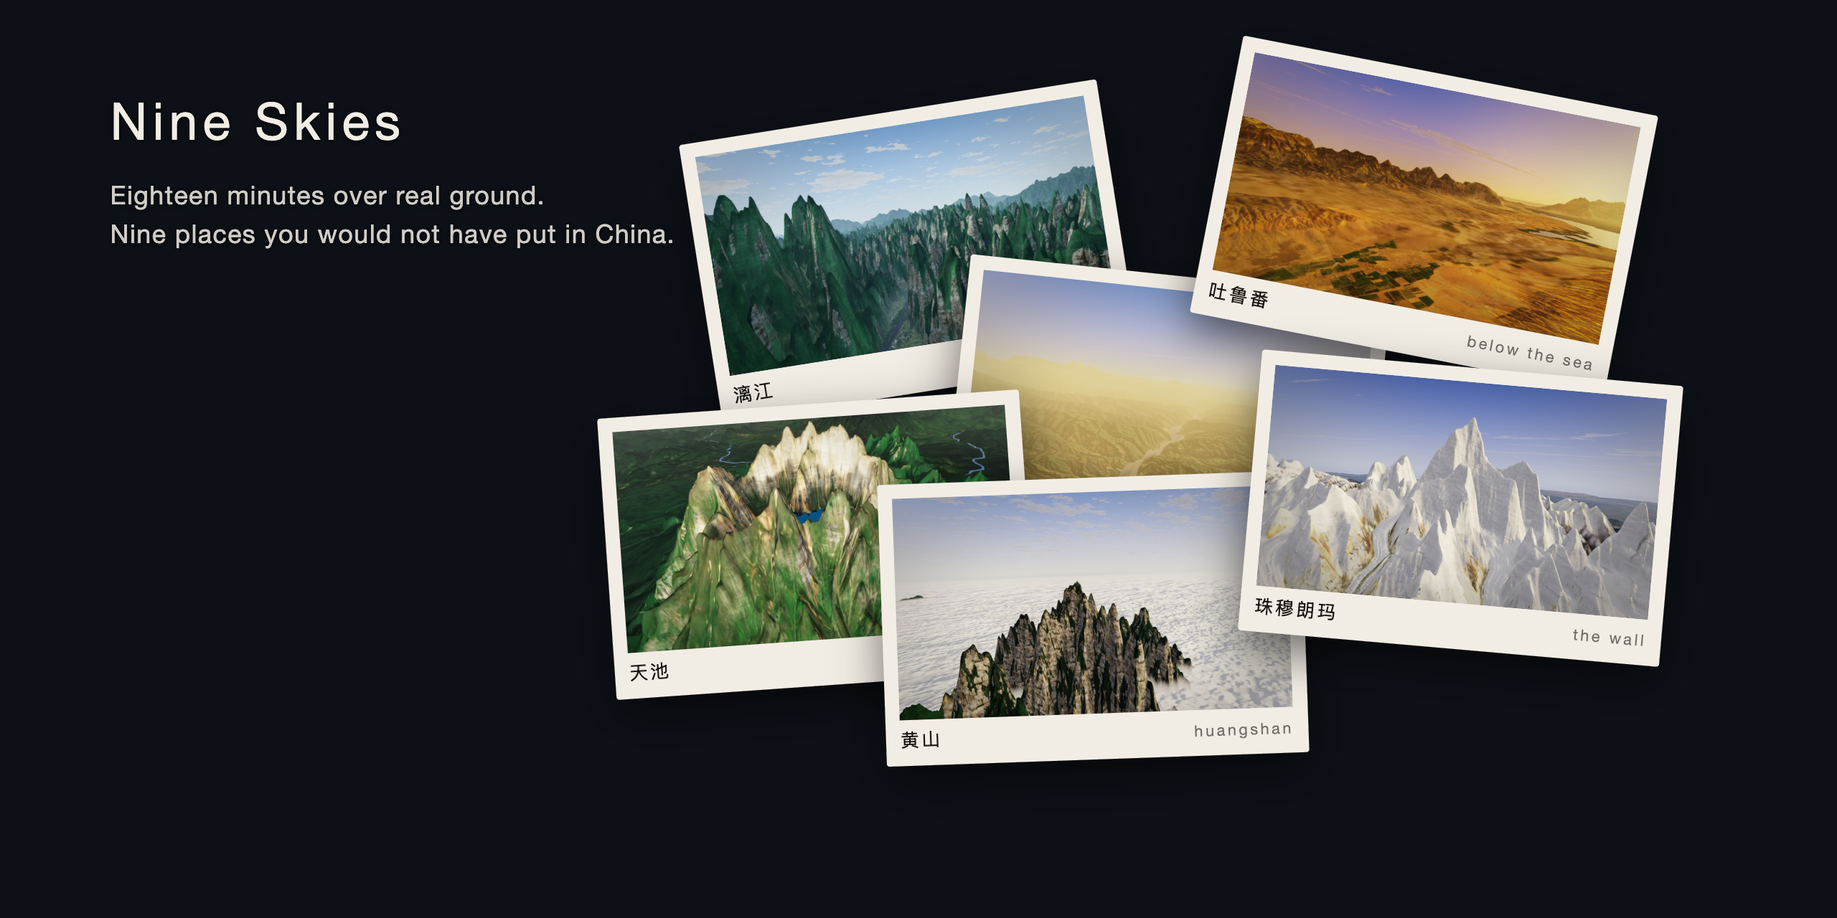
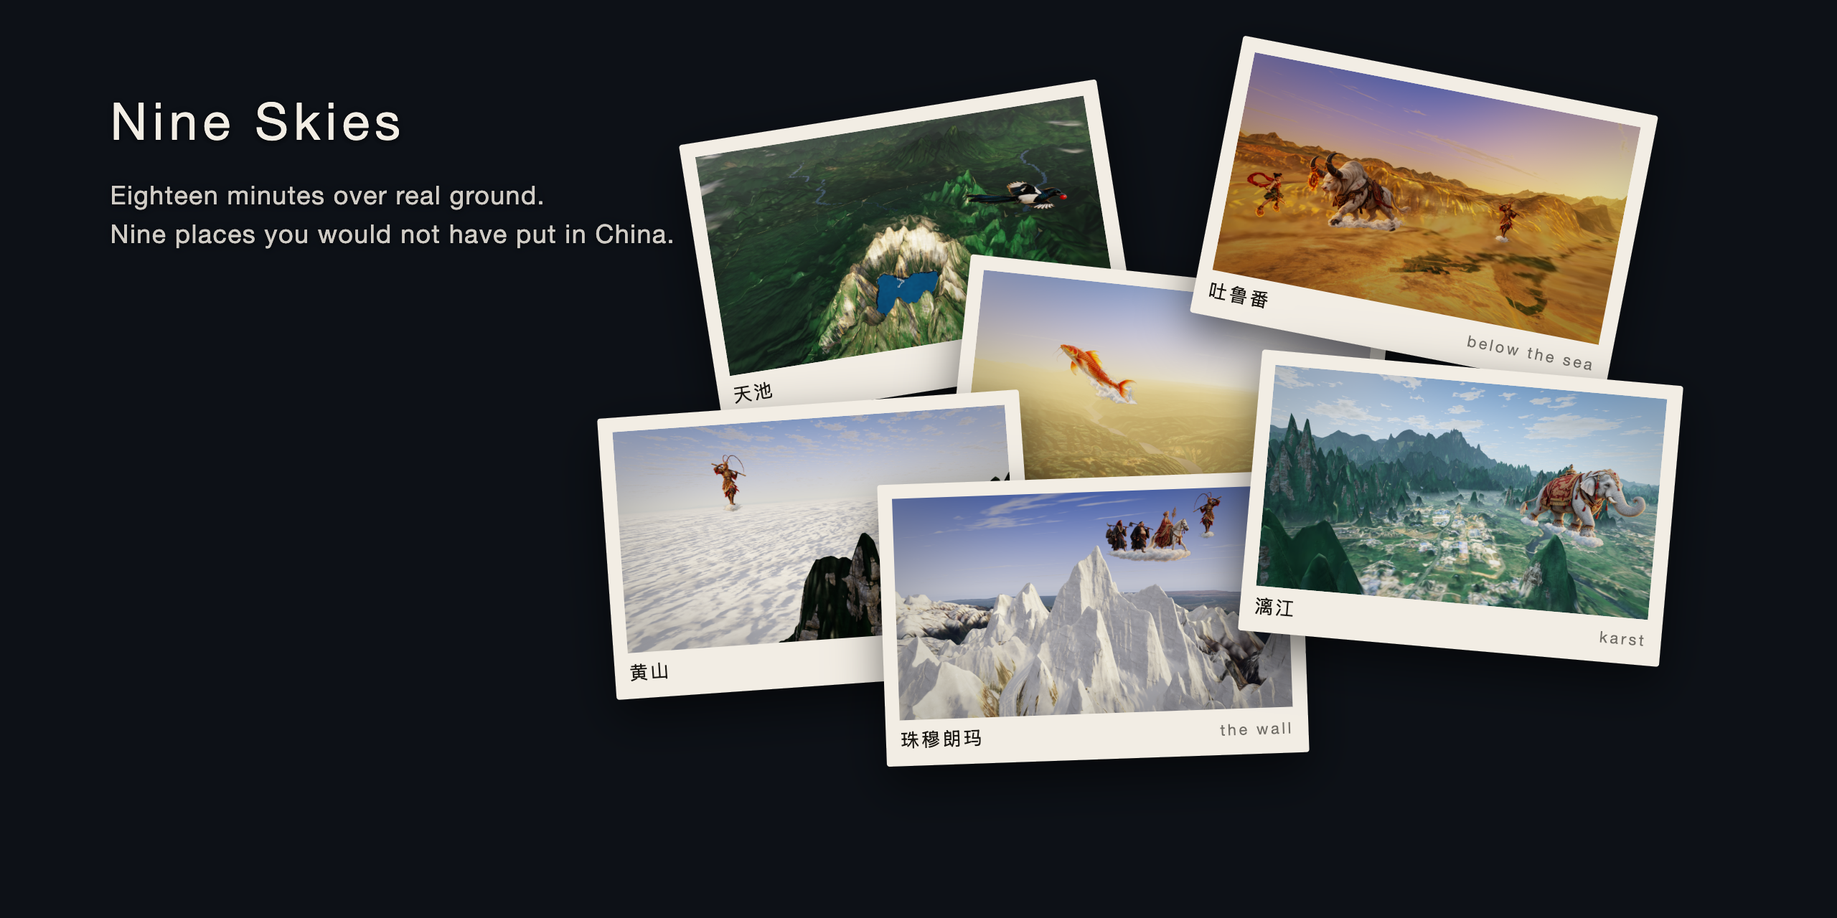
F131: the cover with its skies, a figure on every card
The cover's nine cards were the ground alone: seven were the film's
stills, drawn without the cast for the look's sign-off, and its own two
frames were taken with the cast off too, so the figures the film is named
for were on none of them. It was also drawn before F126-F127.

`npm run cover -- frames` now takes all nine cards from the running film
with the cast on, in one viewing (`?cast&castseed=1`), most at a second in
a figure's line, when the director holds it where its cue puts it: Wukong
over Huangshan, the White Dragon in the Gorges, the elephant over the
Karst, the tiger at the First Bend, the carp over the Loess, the magpie at
Heaven Lake (held 1,500 m up so the crater's lake is in the picture), the
Bull Demon King at the Flaming Mountains, the old turtle on the Roof, the
pilgrims crossing the Wall. The Gorges and the Loess are taken earlier in
their visits, where their figures are clear of the card's caption. The
postcards are placed so no card covers a figure.

The README says what the cast is and how to bring it on (J, the lantern,
`?cast`), since the film opens without it. The cover needs signing off.

Changed region(s): [[0.3125, 0.0938, 0.9062, 0.8125], [0.6562, 0.125, 0.9062, 0.375]]

diff --git a/tools/cover.html b/tools/cover.html
@@ -6,9 +6,10 @@
 <!-- The cover: the nine scenes as nine cards, and the same scenes as
      postcards for a post. `npm run cover` draws both with a headless Chrome.
      The frame is the window: 1280 × 640, the size GitHub and Open Graph use.
-     #sheet is the cover; #postcards the second image. Huangshan and the
-     Wall are the cover's own frames, from `npm run cover -- frames`; the
-     other seven are the film's stills. -->
+     #sheet is the cover; #postcards the second image. Every card is the
+     cover's own frame, from `npm run cover -- frames`: the scene with the
+     cast on (D91), a figure of its sky in the picture. The film's stills
+     are drawn without it. -->
 <style>
   :root {
     --ground: #0d1117; --ground-2: #131923;
@@ -67,12 +68,12 @@
 </head>
 <body>
   <div class="frame" id="postcards">
-    <div class="post" style="--pos:55% 60%;--x:38cqw;--y:12cqh;--r:-9deg"><div class="photo"><img src="../docs/stills/03-karst.png" alt="Karst"></div><div class="cap"><span class="zh">漓江</span><span class="en">Karst</span></div></div>
-    <div class="post" style="--pos:50% 62%;--x:52cqw;--y:30cqh;--r:6deg"><div class="photo"><img src="../docs/stills/05-loess.png" alt="Loess"></div><div class="cap"><span class="zh">黄土高原</span><span class="en">Loess</span></div></div>
-    <div class="post" style="--pos:50% 45%;--x:33cqw;--y:44cqh;--r:-4deg"><div class="photo"><img src="../docs/stills/06-grassland-to-heaven-lake.png" alt="Heaven Lake"></div><div class="cap"><span class="zh">天池</span><span class="en">Heaven Lake</span></div></div>
-    <div class="post" style="--pos:55% 60%;--x:66cqw;--y:8cqh;--r:11deg"><div class="photo"><img src="../docs/stills/07-below-the-sea.png" alt="Below the Sea"></div><div class="cap"><span class="zh">吐鲁番</span><span class="en">Below the Sea</span></div></div>
-    <div class="post" style="--pos:50% 70%;--x:48cqw;--y:52cqh;--r:-2deg"><div class="photo"><img src="../docs/cover/huangshan.png" alt="Huangshan"></div><div class="cap"><span class="zh">黄山</span><span class="en">Huangshan</span></div></div>
-    <div class="post" style="--pos:50% 45%;--x:68cqw;--y:40cqh;--r:5deg"><div class="photo"><img src="../docs/cover/the-wall.png" alt="The Wall"></div><div class="cap"><span class="zh">珠穆朗玛</span><span class="en">The Wall</span></div></div>
+    <div class="post" style="--pos:100% 50%;--x:38cqw;--y:12cqh;--r:-9deg"><div class="photo"><img src="../docs/cover/grassland-to-heaven-lake.png" alt="Heaven Lake: the magpie with the red fruit over the crater"></div><div class="cap"><span class="zh">天池</span><span class="en">Heaven Lake</span></div></div>
+    <div class="post" style="--pos:50% 50%;--x:52cqw;--y:30cqh;--r:6deg"><div class="photo"><img src="../docs/cover/loess.png" alt="Loess: the carp leaping over the Yellow River"></div><div class="cap"><span class="zh">黄土高原</span><span class="en">Loess</span></div></div>
+    <div class="post" style="--pos:30% 50%;--x:33cqw;--y:44cqh;--r:-4deg"><div class="photo"><img src="../docs/cover/huangshan.png" alt="Huangshan: Wukong on his cloud over the cloud sea"></div><div class="cap"><span class="zh">黄山</span><span class="en">Huangshan</span></div></div>
+    <div class="post" style="--pos:30% 50%;--x:66cqw;--y:8cqh;--r:11deg"><div class="photo"><img src="../docs/cover/below-the-sea.png" alt="Below the Sea: Nezha, the Bull Demon King and Wukong at the Flaming Mountains"></div><div class="cap"><span class="zh">吐鲁番</span><span class="en">Below the Sea</span></div></div>
+    <div class="post" style="--pos:100% 45%;--x:48cqw;--y:52cqh;--r:-2deg"><div class="photo"><img src="../docs/cover/the-wall.png" alt="The Wall: the pilgrims crossing over Everest"></div><div class="cap"><span class="zh">珠穆朗玛</span><span class="en">The Wall</span></div></div>
+    <div class="post" style="--pos:70% 50%;--x:68cqw;--y:40cqh;--r:5deg"><div class="photo"><img src="../docs/cover/karst.png" alt="Karst: the elephant of heaven over the towers"></div><div class="cap"><span class="zh">漓江</span><span class="en">Karst</span></div></div>
     <div class="stack">
       <div class="en">Nine Skies</div>
       <div class="line">Eighteen minutes over real ground.<br>Nine places you would not have put in China.</div>
@@ -81,15 +82,15 @@
   <div class="frame" id="sheet">
     <div class="sheet">
       <div class="grid">
-        <div class="card" style="--pos:50% 70%"><img src="../docs/cover/huangshan.png" alt="Huangshan"><div class="cap"><span class="zh">黄山</span><span class="en">Huangshan</span></div></div>
-        <div class="card" style="--pos:45% 45%"><img src="../docs/stills/02-three-gorges.png" alt="The Three Gorges"><div class="cap"><span class="zh">三峡</span><span class="en">The Three Gorges</span></div></div>
-        <div class="card" style="--pos:55% 60%"><img src="../docs/stills/03-karst.png" alt="Karst"><div class="cap"><span class="zh">漓江</span><span class="en">Karst</span></div></div>
-        <div class="card" style="--pos:35% 55%"><img src="../docs/stills/04-first-bend.png" alt="The First Bend"><div class="cap"><span class="zh">长江第一湾</span><span class="en">The First Bend</span></div></div>
-        <div class="card" style="--pos:50% 62%"><img src="../docs/stills/05-loess.png" alt="Loess"><div class="cap"><span class="zh">黄土高原</span><span class="en">Loess</span></div></div>
-        <div class="card" style="--pos:50% 45%"><img src="../docs/stills/06-grassland-to-heaven-lake.png" alt="Heaven Lake"><div class="cap"><span class="zh">天池</span><span class="en">Heaven Lake</span></div></div>
-        <div class="card" style="--pos:55% 60%"><img src="../docs/stills/07-below-the-sea.png" alt="Below the Sea"><div class="cap"><span class="zh">吐鲁番</span><span class="en">Below the Sea</span></div></div>
-        <div class="card" style="--pos:35% 60%"><img src="../docs/stills/08-the-roof.png" alt="The Roof"><div class="cap"><span class="zh">青藏高原</span><span class="en">The Roof</span></div></div>
-        <div class="card" style="--pos:50% 45%"><img src="../docs/cover/the-wall.png" alt="The Wall"><div class="cap"><span class="zh">珠穆朗玛</span><span class="en">The Wall</span></div></div>
+        <div class="card"><img src="../docs/cover/huangshan.png" alt="Huangshan: Wukong on his cloud over the cloud sea"><div class="cap"><span class="zh">黄山</span><span class="en">Huangshan</span></div></div>
+        <div class="card"><img src="../docs/cover/three-gorges.png" alt="The Three Gorges: the White Dragon in the gorge"><div class="cap"><span class="zh">三峡</span><span class="en">The Three Gorges</span></div></div>
+        <div class="card"><img src="../docs/cover/karst.png" alt="Karst: the elephant of heaven over the towers"><div class="cap"><span class="zh">漓江</span><span class="en">Karst</span></div></div>
+        <div class="card"><img src="../docs/cover/first-bend.png" alt="The First Bend: the tiger over Tiger Leaping Gorge"><div class="cap"><span class="zh">长江第一湾</span><span class="en">The First Bend</span></div></div>
+        <div class="card"><img src="../docs/cover/loess.png" alt="Loess: the carp leaping over the Yellow River"><div class="cap"><span class="zh">黄土高原</span><span class="en">Loess</span></div></div>
+        <div class="card"><img src="../docs/cover/grassland-to-heaven-lake.png" alt="Heaven Lake: the magpie with the red fruit over the crater"><div class="cap"><span class="zh">天池</span><span class="en">Heaven Lake</span></div></div>
+        <div class="card"><img src="../docs/cover/below-the-sea.png" alt="Below the Sea: Nezha, the Bull Demon King and Wukong at the Flaming Mountains"><div class="cap"><span class="zh">吐鲁番</span><span class="en">Below the Sea</span></div></div>
+        <div class="card"><img src="../docs/cover/the-roof.png" alt="The Roof: the old turtle of the Tongtian over the plateau"><div class="cap"><span class="zh">青藏高原</span><span class="en">The Roof</span></div></div>
+        <div class="card"><img src="../docs/cover/the-wall.png" alt="The Wall: the pilgrims crossing over Everest"><div class="cap"><span class="zh">珠穆朗玛</span><span class="en">The Wall</span></div></div>
       </div>
       <div class="spine">Nine Skies<small>eighteen minutes over real ground</small></div>
     </div>

diff --git a/tools/cover.ts b/tools/cover.ts
@@ -6,10 +6,10 @@
  * server.
  *
  * `npm run cover -- frames [scene[@seconds] ...]`: the cover's own frames,
- * for the scenes whose still does not hold up at a card's size (FRAMES), from
- * the running film (`npm run dev`) into docs/cover/, then `npm run cover`
- * again. Every other card is the film's own still, as signed off (D77); the
- * film's stills are not touched.
+ * one a card, from the running film (`npm run dev`) with the cast on (D91),
+ * each where a figure of the scene's sky is in the picture (FRAMES), into
+ * docs/cover/, then `npm run cover` again. The film's stills are drawn
+ * without the cast, as signed off (D77), and are not touched.
  *
  * Chrome's own --screenshot writes the file and then, on this Mac, does not
  * always exit, so the file is what is waited for, and Chrome is stopped.
@@ -26,26 +26,50 @@ const URL_ = process.env.NS_URL ?? "http://localhost:5173/";
 const sleep = (ms: number) => new Promise((r) => setTimeout(r, ms));
 
 /**
- * Where on its own rail the cover takes a scene whose film still does not
- * hold up on a card: seconds of flight at the authored speed, and the height
- * over the ground where it is not the rail's own. `scene@seconds+metres` on
+ * Where on its own rail the cover takes each scene: seconds of flight at the
+ * authored speed, and the height over the ground where it is not the rail's
+ * own. Each is a second with a figure of the scene's sky in the picture, so
+ * the card shows the sky as well as the ground: nine figures, one a card.
+ * Most are in the figure's line, when the director holds it where its cue
+ * puts it (D92); where that spot is under the card's caption, a second of
+ * its visit in the cover's viewing (CAST_SEED). `scene@seconds+metres` on
  * the command line tries another.
  */
 const FRAMES: Record<string, { at: number; aboveGroundM?: number }> = {
-  // The film's still is at 20 s, 150 m over the southern peaks, where the
-  // granite's photograph, 5.7 m of cliff drawn 60 m to a face on the 30 m
-  // grid (F92), shows its blocks. At 8 s the camera is still 800 m up on the
-  // way in, the peaks ahead over the cloud, and a face is a few pixels.
-  huangshan: { at: 8 },
-  // The film's still is at 60 s, coming into the Rongbuk basin among its
-  // peaks. The card is the scene's subject: at 70 s the camera is over the
-  // glacier with the north face ahead and Nepal beyond it, reached at the
-  // authored speed since F101 re-timed the rail (before it, the face was at
-  // 136 s; that time is now a gorge on the Nepal side). Drawn at the Wall's
-  // own exaggeration of three it is a mountain; at the film's six it was a
-  // white needle (F97).
-  "the-wall": { at: 70 },
+  // Wukong on his cloud over the cloud sea, the peaks beside him. The
+  // film's still is at 20 s, 150 m over the southern peaks, where the
+  // granite's photograph shows its blocks on a card (F92).
+  huangshan: { at: 34 },
+  // The White Dragon of Eagle Grief Stream coming up the gorge. In his
+  // line (30 s) he is in the slot below the camera, under the caption.
+  "three-gorges": { at: 18 },
+  // The elephant of heaven that stayed to drink, over the towers and the Li.
+  karst: { at: 8 },
+  // The tiger over the gorge it is said to have jumped.
+  "first-bend": { at: 66 },
+  // The carp leaping for the Dragon Gate over the Yellow River, before its
+  // line (62 s), which holds it low on the right, under the caption.
+  loess: { at: 54 },
+  // The magpie with the red fruit over the crater and its lake. On the
+  // rail, 300 m up, the flank fills the picture until the magpie has gone;
+  // at 1,500 m, inside the scene's band, the lake is below it.
+  "grassland-to-heaven-lake": { at: 106, aboveGroundM: 1500 },
+  // The Bull Demon King at the Flaming Mountains, Nezha's fire wheel on his
+  // horn, Nezha in his way and Wukong after him (F130).
+  "below-the-sea": { at: 46 },
+  // The old turtle of the Tongtian over the plateau.
+  "the-roof": { at: 86 },
+  // The party crossing over the face to the Western Heaven, the film's end.
+  // Over the glacier with the north face ahead and Nepal beyond it, drawn at
+  // the Wall's own exaggeration of three (F97).
+  "the-wall": { at: 72 },
 };
+/**
+ * The viewing the frames are taken in (`?castseed=`, D92): where a figure
+ * is between its lines, and whether one that comes by chance comes, is the
+ * seed's, so the cover draws the same viewing every time it is taken.
+ */
+const CAST_SEED = 1;
 /** Drawn at 1920 × 1080: a card is 666 pixels wide at twice the cover's size. */
 const FRAME_W = 1920;
 const FRAME_H = 1080;
@@ -151,25 +175,33 @@ async function drawFrames(wanted: string[]): Promise<void> {
       return m.result?.result?.value;
     };
     await send("Emulation.setDeviceMetricsOverride", { width: FRAME_W, height: FRAME_H, deviceScaleFactor: 1, mobile: false });
-    await send("Page.navigate", { url: URL_ });
+    // The cast on, in the cover's own viewing; the profile is new, so no choice remembered in it says otherwise.
+    const url = new URL(URL_);
+    url.searchParams.set("cast", "");
+    url.searchParams.set("castseed", String(CAST_SEED));
+    await send("Page.navigate", { url: url.href });
     let ready = false;
     for (let k = 0; k < 300 && !ready; k++) {
       await sleep(200);
-      ready = (await run("typeof window.__ns === 'object' && typeof window.__ns.hold === 'function'").catch(() => false)) === true;
+      ready = (await run("typeof window.__ns === 'object' && typeof window.__ns.hold === 'function' && !!window.__ns.cast").catch(() => false)) === true;
     }
-    if (!ready) throw new Error(`the film did not start at ${URL_}: is \`npm run dev\` running?`);
+    if (!ready) throw new Error(`the film and its cast did not start at ${url.href}: is \`npm run dev\` running?`);
     for (const t of takes) {
       await run(`__ns.hold(${t.i}, ${t.seconds})`);
       // The held camera is placed at this height over the ground every frame, within the scene's band.
       if (t.aboveGroundM !== null) await run(`__ns.pinned().aboveGroundM = ${t.aboveGroundM}`);
       const settled = await run("__ns.settled()");
+      // The figures' pictures go to the GPU one a frame (F123): thirty frames more, so every one on stage is drawn.
+      await run("new Promise((done) => { let n = 30; const f = () => (--n > 0 ? requestAnimationFrame(f) : done(true)); requestAnimationFrame(f); })");
+      const figures = (await run("__ns.cast.figures.filter((f) => f.group.visible).length")) as number;
       // Drawn and read in one task, so the frame read is the one just drawn.
-      const url = (await run("(__ns.rig.render(), document.getElementById('view').toDataURL('image/png'))")) as string;
-      const png = Buffer.from(url.slice(url.indexOf(",") + 1), "base64");
+      const data = (await run("(__ns.rig.render(), document.getElementById('view').toDataURL('image/png'))")) as string;
+      const png = Buffer.from(data.slice(data.indexOf(",") + 1), "base64");
       const out = `docs/cover/${t.id}.png`;
       writeFileSync(out, png);
       const height = t.aboveGroundM === null ? "" : `, ${t.aboveGroundM} m up`;
-      console.log(`${out}: ${t.seconds} s${height}, ${FRAME_W} × ${FRAME_H}${settled ? "" : "  (the ground had not settled in 45 s)"}`);
+      const notes = [settled ? "" : "the ground had not settled in 45 s", figures ? "" : "no figure on stage"].filter(Boolean);
+      console.log(`${out}: ${t.seconds} s${height}, ${FRAME_W} × ${FRAME_H}, ${figures} figures on stage${notes.length ? `  (${notes.join("; ")})` : ""}`);
     }
     ws.close();
   });

diff --git a/docs/findings.md b/docs/findings.md
@@ -4643,3 +4643,64 @@ and on some viewings pass behind him on the way, as before.
 to keep its head in and never down on the other; Wukong after the Bull and
 Nezha in his way; Nezha over Huangshan about Wukong's size; the paintings'
 heights), and the film validates.
+
+## F131 — The cover with its skies: a figure on every card, 29 September 2026
+
+**Asked.** The cover has nine cards, and something shipped is not on it.
+It was the cast. The cover (`app/public/cover.png`, the README's first
+picture and the site's preview) was the ground alone: seven cards were the
+film's stills, which are drawn without the cast for the look's sign-off
+(D77), and its own two frames, Huangshan and the Wall, were taken with the
+cast off too. Since 26 September the film has had its figures (D91), painted
+since the 28th (D94) and alive since the 29th (D96), and the film is named
+for the skies they fill, yet no card showed one. The cover was a day behind
+the ground as well: the stills were taken again for F126–F127 and the cover
+was last drawn for F117. The README did not mention the cast at all.
+
+**A frame a card, with the cast on.** `npm run cover -- frames` now takes
+all nine cards from the running film with the cast on, in one viewing
+(`?cast&castseed=1`, `CAST_SEED` in `tools/cover.ts`), so a card comes out
+the same each time it is taken. It waits thirty frames after the ground has
+settled, since the figures' pictures go to the GPU one a frame (F123), and
+reports how many figures are on stage. Most frames are a second in a
+figure's line, when the director holds it where its cue puts it (D92):
+
+| Card | Second | Figure |
+| --- | --- | --- |
+| Huangshan | 34 | Wukong on his cloud over the cloud sea, the peaks beside him |
+| The Three Gorges | 18 | the White Dragon coming up the gorge |
+| Karst | 8 | the elephant of heaven over the towers and the Li |
+| The First Bend | 66 | the tiger over the gorge it jumped |
+| Loess | 54 | the carp leaping over the Yellow River |
+| Heaven Lake | 106, 1,500 m up | the magpie with the red fruit over the crater |
+| Below the Sea | 46 | the Bull Demon King with Nezha's wheel on his horn, Nezha in his way, Wukong after him |
+| The Roof | 86 | the old turtle of the Tongtian |
+| The Wall | 72 | the party crossing over the face to the Western Heaven |
+
+Nine different figures. The Dragon Kings over Huangshan (22 s) read as
+well as Wukong does, and the pilgrims over the Karst (28 s) are that
+scene's strongest frame, but they are the Wall's card; the Jing River King
+over the Loess (42 s) would have made three dragons.
+
+**Off the caption.** Held for their lines, the White Dragon (30 s) and the
+carp (62 s) sit low in the picture, under the card's words. Both are taken
+earlier in their visits, where this viewing has them high: the only two
+cards that hang on the seed. Heaven Lake's rail is 300 m over Changbai's
+flank, which fills the picture while the magpie is in it; by 108 s, when
+the crater opens, the bird has gone. Held at 1,500 m, inside the scene's
+band of 300 to 2,500, at 106 s the lake is under it. On the postcards, a
+card lies under the ones after it, so the six are placed where each
+figure is on an uncovered part: Heaven Lake's magpie was under the
+Huangshan card, then under the Wall's.
+
+**The README** opens with the cast and says in "Watching it" how to bring
+it on (`J`, the lantern on the bar, `?cast`): the cover now shows a layer
+the film opens without. Each card's alt text names its figure.
+
+**Checked.** `npm run typecheck`; the nine frames and the cover and
+postcards drawn again and looked at, every figure clear of its card's
+words. The film's stills and every scene file are untouched.
+
+**Left.** The cards' captions name the place, not its sky; 苍天 and the
+rest are on the title card only while the cast is on (F104). The cover
+needs signing off (D77).

diff --git a/README.md b/README.md
@@ -1,11 +1,16 @@
 # Nine Skies
 
-![The nine scenes as nine cards: Huangshan, the Three Gorges, karst, the First Bend, loess, Heaven Lake, Turpan, the plateau, Everest](app/public/cover.png)
+![The nine scenes as nine cards, each with a figure of its sky: Wukong over Huangshan's cloud sea, the White Dragon in the Three Gorges, the elephant of heaven over the karst, the tiger at the First Bend, the carp over the loess, the magpie at Heaven Lake, the Bull Demon King at Turpan, the old turtle on the plateau, the pilgrims crossing Everest](app/public/cover.png)
 
 Eighteen minutes over real ground: nine scenes of China, two minutes each,
 flown over open elevation data, from Huangshan's granite above the clouds
 to the face of Everest. You can steer, speed up or slow down, or do nothing
 at all. After eighteen minutes it is over.
+
+Over the ground, when you ask for them, fly the figures of the stories
+told about each place: Wukong over Huangshan's clouds, the tiger that
+jumped Tiger Leaping Gorge, the pilgrims crossing to the Western Heaven
+over Everest, each scene under one of the *Huainanzi*'s nine skies.
 
 It is a public research project, and the question it asks is written on the
 front of it: *can eighteen minutes over real ground give someone who has
@@ -34,6 +39,10 @@ the credits; in flight it steps aside until the pointer moves. Its keys are
 A chapter's name in the address starts the film there (`#karst`), and a
 scene whose ground has not arrived holds on its title card until it has.
 Phones play in landscape.
+
+The cast, the figures on the cover, is off until asked: `J` or the lantern
+on the bar brings it on, the browser remembers the choice, and `?cast` in
+the address carries it in a link.
 
 ## Running it
 
@@ -64,10 +73,10 @@ scene, `await __ns.settled()` waits for its ground to land,
 `docs/stills/`, and `__ns.frameCost()` asks the GPU what a frame costs.
 `npm run cover` draws the cover, the nine scenes as nine cards, from
 `tools/cover.html` with a headless Chrome: `app/public/cover.png`, and the
-postcards in `docs/cover-postcards.png`. Seven cards are the stills; Huangshan
-and the Wall, whose stills do not hold up that small, are the cover's own
-frames in `docs/cover/`, taken again with `npm run cover -- frames` while the
-dev server runs.
+postcards in `docs/cover-postcards.png`. Every card is the cover's own frame
+in `docs/cover/`, the scene with the cast on and one of its figures in the
+picture, taken again with `npm run cover -- frames` while the dev server
+runs; the stills are drawn without the cast.
 `?frametime` shows the frame time by wall clock, for a phone, and
 `?without=fine,near,rock,relief` flies without those layers, to measure
 what each costs.
